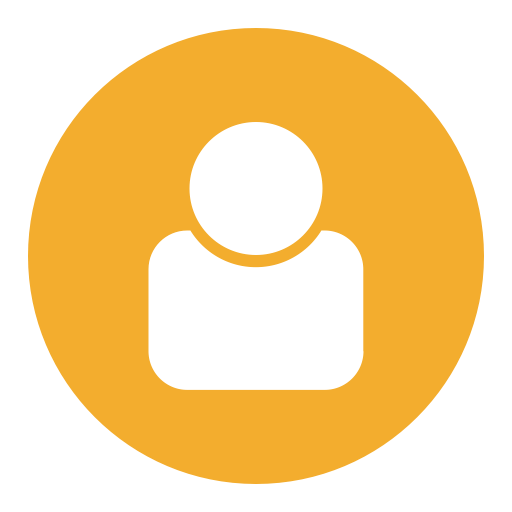
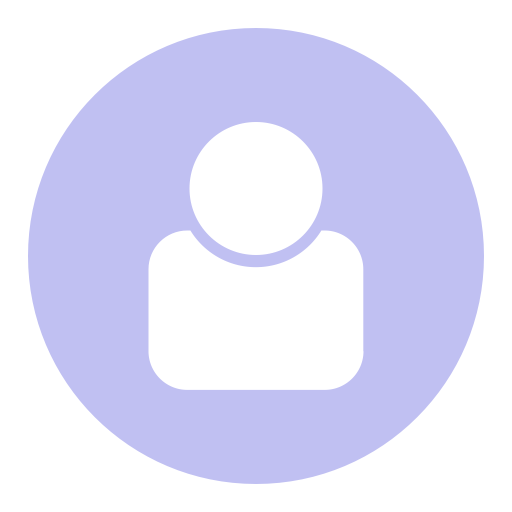
theme color changed

diff --git a/lib/screens/login/sign_up.dart b/lib/screens/login/sign_up.dart
@@ -36,8 +36,8 @@ class _SignupState extends State<Signup> {
           child: BlocBuilder<LoginBloc, LoginState>(
             builder: (context, state) {
               if (state is LoginLoading) {
-                return const CircularProgressIndicator(
-                  color: Colors.amber,
+                return CircularProgressIndicator(
+                  color: Theme.of(context).primaryColor,
                 );
               }
               return FloatingButon(
@@ -147,7 +147,7 @@ _buildEmailForm(BuildContext context, TextEditingController _emailController,
   return Container(
     decoration: BoxDecoration(
       border: Border.all(
-        color: Colors.amber,
+        color: Theme.of(context).primaryColor,
         width: 1,
       ),
       borderRadius: BorderRadius.circular(16),
@@ -166,10 +166,7 @@ _buildEmailForm(BuildContext context, TextEditingController _emailController,
           enabled: true,
           hintText: "Email",
           hintStyle: Theme.of(context).textTheme.headline5,
-          prefixIcon: const Icon(
-            Icons.mail,
-            color: Colors.amber,
-          ),
+          prefixIcon: Icon(Icons.mail, color: Theme.of(context).primaryColor),
           border: InputBorder.none,
         ),
         validator: (value) {
@@ -191,7 +188,7 @@ _buildPasswordForm(BuildContext context,
   return Container(
     decoration: BoxDecoration(
       border: Border.all(
-        color: Colors.amber,
+        color: Theme.of(context).primaryColor,
         width: 1,
       ),
       borderRadius: BorderRadius.circular(16),
@@ -220,9 +217,9 @@ _buildPasswordForm(BuildContext context,
           hintText: "Password",
           hintStyle: Theme.of(context).textTheme.headline5,
           border: InputBorder.none,
-          prefixIcon: const Icon(
+          prefixIcon: Icon(
             Icons.lock,
-            color: Colors.amber,
+            color: Theme.of(context).primaryColor,
           ),
         ),
       ),
@@ -238,7 +235,7 @@ _buildConfirmPasswordForm(
   return Container(
     decoration: BoxDecoration(
       border: Border.all(
-        color: Colors.amber,
+        color: Theme.of(context).primaryColor,
         width: 1,
       ),
       borderRadius: BorderRadius.circular(16),
@@ -270,9 +267,9 @@ _buildConfirmPasswordForm(
           hintText: "Confirm password",
           hintStyle: Theme.of(context).textTheme.headline5,
           border: InputBorder.none,
-          prefixIcon: const Icon(
+          prefixIcon: Icon(
             Icons.lock,
-            color: Colors.amber,
+            color: Theme.of(context).primaryColor,
           ),
         ),
       ),

diff --git a/lib/screens/login/login.dart b/lib/screens/login/login.dart
@@ -24,9 +24,8 @@ class LoginScreen extends StatelessWidget {
       floatingActionButton:
           BlocBuilder<LoginBloc, LoginState>(builder: (context, state) {
         if (state is LoginLoading) {
-          return const CircularProgressIndicator(
-            color: Colors.amber,
-          );
+          return CircularProgressIndicator(
+              color: Theme.of(context).primaryColor);
         } else {
           return FloatingButon(callback: () {
             if (_formKey.currentState!.validate()) {
@@ -155,7 +154,7 @@ _buildEmailForm(BuildContext context, TextEditingController _controller) {
   return Container(
     decoration: BoxDecoration(
       border: Border.all(
-        color: Colors.amber,
+        color: Theme.of(context).primaryColor,
         width: 1,
       ),
       borderRadius: BorderRadius.circular(16),
@@ -174,9 +173,9 @@ _buildEmailForm(BuildContext context, TextEditingController _controller) {
           enabled: true,
           hintText: "Email",
           hintStyle: Theme.of(context).textTheme.headline5,
-          prefixIcon: const Icon(
+          prefixIcon: Icon(
             Icons.mail,
-            color: Colors.amber,
+            color: Theme.of(context).primaryColor,
           ),
           border: InputBorder.none,
         ),
@@ -198,7 +197,7 @@ _buildPasswordForm(BuildContext context, TextEditingController _controller) {
   return Container(
     decoration: BoxDecoration(
       border: Border.all(
-        color: Colors.amber,
+        color: Theme.of(context).primaryColor,
         width: 1,
       ),
       borderRadius: BorderRadius.circular(16),
@@ -227,9 +226,9 @@ _buildPasswordForm(BuildContext context, TextEditingController _controller) {
           hintText: "Passsword",
           hintStyle: Theme.of(context).textTheme.headline5,
           border: InputBorder.none,
-          prefixIcon: const Icon(
+          prefixIcon: Icon(
             Icons.lock,
-            color: Colors.amber,
+            color: Theme.of(context).primaryColor,
           ),
         ),
       ),

diff --git a/lib/config/theme.dart b/lib/config/theme.dart
@@ -2,28 +2,36 @@ import 'package:flutter/material.dart';
 
 ThemeData theme({required bool isDark}) {
   return ThemeData(
-      scaffoldBackgroundColor: isDark ? Colors.white : Color(0xff111111),
+      primaryColor: primaryColor(isDark),
+      colorScheme: ColorScheme.fromSwatch().copyWith(
+        secondary: Color(0xffe6e6fa),
+      ),
+      scaffoldBackgroundColor: isDark ? Colors.white : Color(0xff000000),
       fontFamily: 'Nunito',
       canvasColor: canvasColor(isDark),
       cardColor: !isDark
-          ? Color.fromARGB(255, 20, 20, 20)
-          : Color.fromARGB(255, 250, 250, 250),
+          ? const Color.fromARGB(255, 8, 8, 8)
+          : const Color.fromARGB(255, 250, 250, 250),
       bottomAppBarColor: bottomAppBarColor(isDark),
       indicatorColor: indicatorColor(isDark),
       pageTransitionsTheme: const PageTransitionsTheme(builders: {
-        TargetPlatform.iOS: const CupertinoPageTransitionsBuilder(),
-        TargetPlatform.android: const CupertinoPageTransitionsBuilder(),
+        TargetPlatform.iOS: CupertinoPageTransitionsBuilder(),
+        TargetPlatform.android: CupertinoPageTransitionsBuilder(),
       }),
       iconTheme: iconTheme(isDark),
       textTheme: textTheme(isDark: isDark));
 }
 
 Color indicatorColor(bool isDark) {
-  return !isDark ? Colors.white : Colors.black;
+  return !isDark ? Colors.white : const Color(0xff000000);
+}
+
+Color primaryColor(bool isDark) {
+  return const Color(0xffc0c0f2);
 }
 
 Color canvasColor(bool isDark) {
-  return isDark ? Colors.white : Color(0xff111111);
+  return isDark ? Colors.white : const Color(0xff000000);
 }
 
 IconThemeData iconTheme(bool isDark) {
@@ -31,7 +39,7 @@ IconThemeData iconTheme(bool isDark) {
 }
 
 Color bottomAppBarColor(bool isDark) {
-  return isDark ? Colors.white : Color.fromARGB(255, 14, 13, 13);
+  return isDark ? Colors.white : const Color(0xff000000);
 }
 
 TextTheme textTheme({required bool isDark}) {

diff --git a/lib/screens/home/homeLandingPage.dart b/lib/screens/home/homeLandingPage.dart
@@ -34,31 +34,31 @@ class _HomeLandingPageState extends State<HomeLandingPage> {
       PersistentBottomNavBarItem(
         icon: const Icon(Icons.home),
         title: ("Home"),
-        activeColorPrimary: Colors.amber,
+        activeColorPrimary: Theme.of(context).primaryColor,
         inactiveColorPrimary: CupertinoColors.systemGrey,
       ),
       PersistentBottomNavBarItem(
         icon: const Icon(MaterialIcons.notifications),
         title: ("Notification"),
-        activeColorPrimary: Colors.amber,
+        activeColorPrimary: Theme.of(context).primaryColor,
         inactiveColorPrimary: CupertinoColors.systemGrey,
       ),
       PersistentBottomNavBarItem(
         icon: const Icon(MaterialCommunityIcons.pentagon),
         title: ("Sanity"),
-        activeColorPrimary: Colors.amber,
+        activeColorPrimary: Theme.of(context).primaryColor,
         inactiveColorPrimary: CupertinoColors.systemGrey,
       ),
       PersistentBottomNavBarItem(
         icon: const Icon(Icons.medical_services_rounded),
         title: ("Assist"),
-        activeColorPrimary: Colors.amber,
+        activeColorPrimary: Theme.of(context).primaryColor,
         inactiveColorPrimary: CupertinoColors.systemGrey,
       ),
       PersistentBottomNavBarItem(
         icon: const Icon(MaterialCommunityIcons.message),
         title: ("Messages"),
-        activeColorPrimary: Colors.amber,
+        activeColorPrimary: Theme.of(context).primaryColor,
         inactiveColorPrimary: CupertinoColors.systemGrey,
       ),
     ];

diff --git a/lib/screens/login/forgot_password.dart b/lib/screens/login/forgot_password.dart
@@ -96,7 +96,7 @@ class ForgotPassword extends StatelessWidget {
                     ]),
                 child: ElevatedButton(
                   style: ElevatedButton.styleFrom(
-                      primary: Colors.amber,
+                      primary: Theme.of(context).primaryColor,
                       shape: RoundedRectangleBorder(
                           borderRadius: BorderRadius.circular(12))),
                   onPressed: () {
@@ -128,7 +128,7 @@ _buildEmailForm(
   return Container(
     decoration: BoxDecoration(
       border: Border.all(
-        color: Colors.amber,
+        color: Theme.of(context).primaryColor,
         width: 1,
       ),
       borderRadius: BorderRadius.circular(16),
@@ -143,13 +143,13 @@ _buildEmailForm(
             .textTheme
             .bodyText2!
             .copyWith(fontSize: 15, color: const Color(0xff787878)),
-        decoration: const InputDecoration(
+        decoration: InputDecoration(
           enabled: true,
           hintText: "Email",
-          hintStyle: TextStyle(color: Colors.black),
+          hintStyle: const TextStyle(color: Colors.black),
           prefixIcon: Icon(
             Icons.mail,
-            color: Colors.amber,
+            color: Theme.of(context).primaryColor,
           ),
           border: InputBorder.none,
         ),

diff --git a/lib/widgets/custom_forms.dart b/lib/widgets/custom_forms.dart
@@ -18,7 +18,7 @@ class CustomTextFormField extends StatelessWidget {
         child: Container(
           decoration: BoxDecoration(
             border: Border.all(
-              color: Colors.amber,
+              color: Theme.of(context).primaryColor,
               width: 1,
             ),
             borderRadius: BorderRadius.circular(16),
@@ -73,7 +73,7 @@ class CustomTextFormFieldInteger extends StatelessWidget {
           width: 100,
           decoration: BoxDecoration(
             border: Border.all(
-              color: Colors.amber,
+              color: Theme.of(context).primaryColor,
               width: 1,
             ),
             borderRadius: BorderRadius.circular(16),
@@ -126,7 +126,7 @@ class _CustomDropDownState extends State<CustomDropDown> {
       child: Container(
         decoration: BoxDecoration(
           border: Border.all(
-            color: Colors.amber,
+            color: Theme.of(context).primaryColor,
             width: 1,
           ),
           borderRadius: BorderRadius.circular(16),

diff --git a/lib/screens/login/login_landing.dart b/lib/screens/login/login_landing.dart
@@ -21,13 +21,16 @@ class LoginLanding extends StatelessWidget {
             mainAxisAlignment: MainAxisAlignment.spaceBetween,
             children: [
               const Expanded(
-                child: Image(
-                  image: AssetImage('assets/logos/sanity_full.png'),
+                child: Opacity(
+                  opacity: 0,
+                  child: Image(
+                    image: AssetImage('assets/logos/sanity_full.png'),
+                  ),
                 ),
               ),
               ElevatedButton(
                   style: ElevatedButton.styleFrom(
-                      primary: Colors.amber,
+                      primary: Theme.of(context).primaryColor,
                       shape: RoundedRectangleBorder(
                           borderRadius: BorderRadius.circular(12))),
                   onPressed: () {

diff --git a/lib/widgets/popup_image_picker.dart b/lib/widgets/popup_image_picker.dart
@@ -51,8 +51,8 @@ class _ImagePickPopUpState extends State<ImagePickPopUp> {
             children: [
               ElevatedButton(
                   style: ButtonStyle(
-                      backgroundColor:
-                          MaterialStateProperty.all<Color>(Colors.amber),
+                      backgroundColor: MaterialStateProperty.all<Color>(
+                          Theme.of(context).primaryColor),
                       shape: MaterialStateProperty.all<RoundedRectangleBorder>(
                           RoundedRectangleBorder(
                         borderRadius: BorderRadius.circular(18.0),

diff --git a/lib/widgets/custom_drawer.dart b/lib/widgets/custom_drawer.dart
@@ -111,8 +111,9 @@ class _CustomDrawerState extends State<CustomDrawer> {
                                 isSwitched = value;
                               });
                             },
-                            activeTrackColor: Colors.amberAccent,
-                            activeColor: Colors.amber,
+                            activeTrackColor:
+                                Theme.of(context).colorScheme.secondary,
+                            activeColor: Theme.of(context).primaryColor,
                           );
                         }),
                         leading: Icon(

diff --git a/lib/screens/login/email_verification.dart b/lib/screens/login/email_verification.dart
@@ -119,7 +119,7 @@ class _EmailVerificationState extends State<EmailVerification> {
                             fontSize: 20.0, color: Colors.black),
                         keyboardType: TextInputType.number,
                         underlineColor: const Color(0xff787878),
-                        underlineUnfocusedColor: Colors.amber,
+                        underlineUnfocusedColor: Theme.of(context).primaryColor,
                         length: 5,
                         clearAll: Padding(
                           padding: const EdgeInsets.all(8.0),

diff --git a/lib/widgets/floatingbutton.dart b/lib/widgets/floatingbutton.dart
@@ -9,7 +9,7 @@ class FloatingButon extends StatelessWidget {
   Widget build(BuildContext context) {
     return FloatingActionButton(
       onPressed: callback,
-      backgroundColor: Colors.amber,
+      backgroundColor: Theme.of(context).primaryColor,
       child: const Icon(
         Icons.arrow_forward,
         color: Colors.white,
